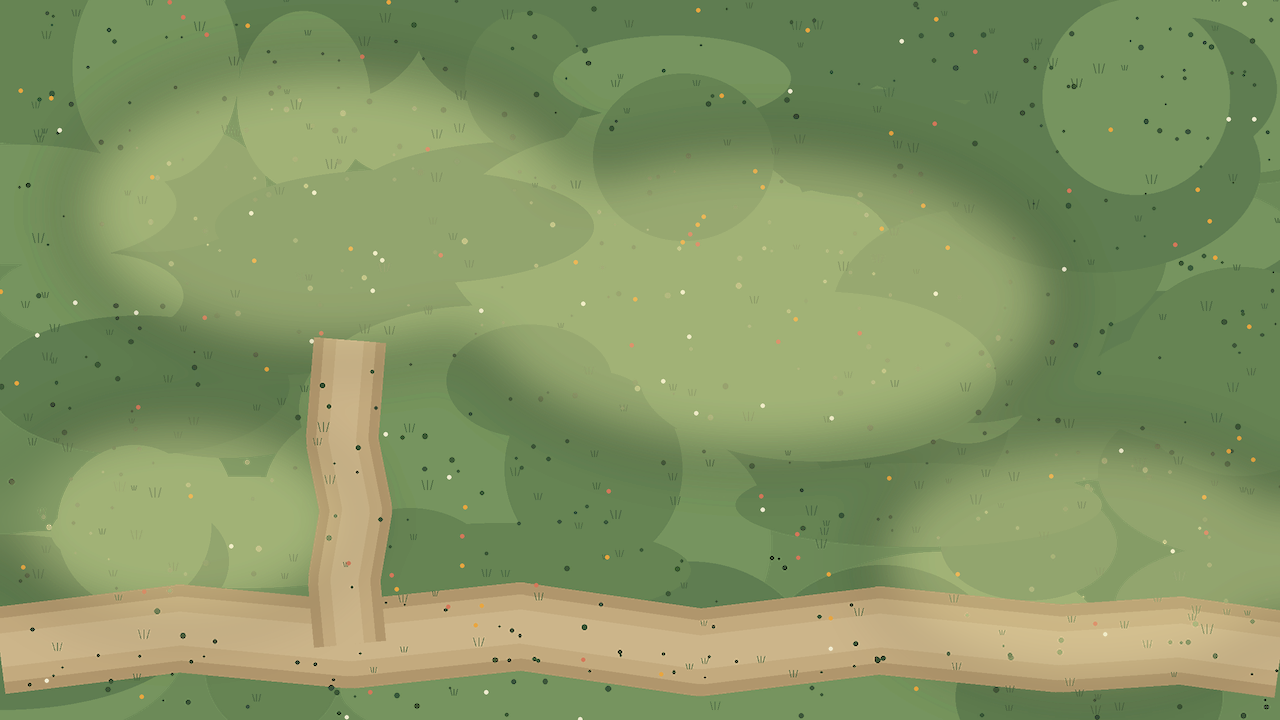
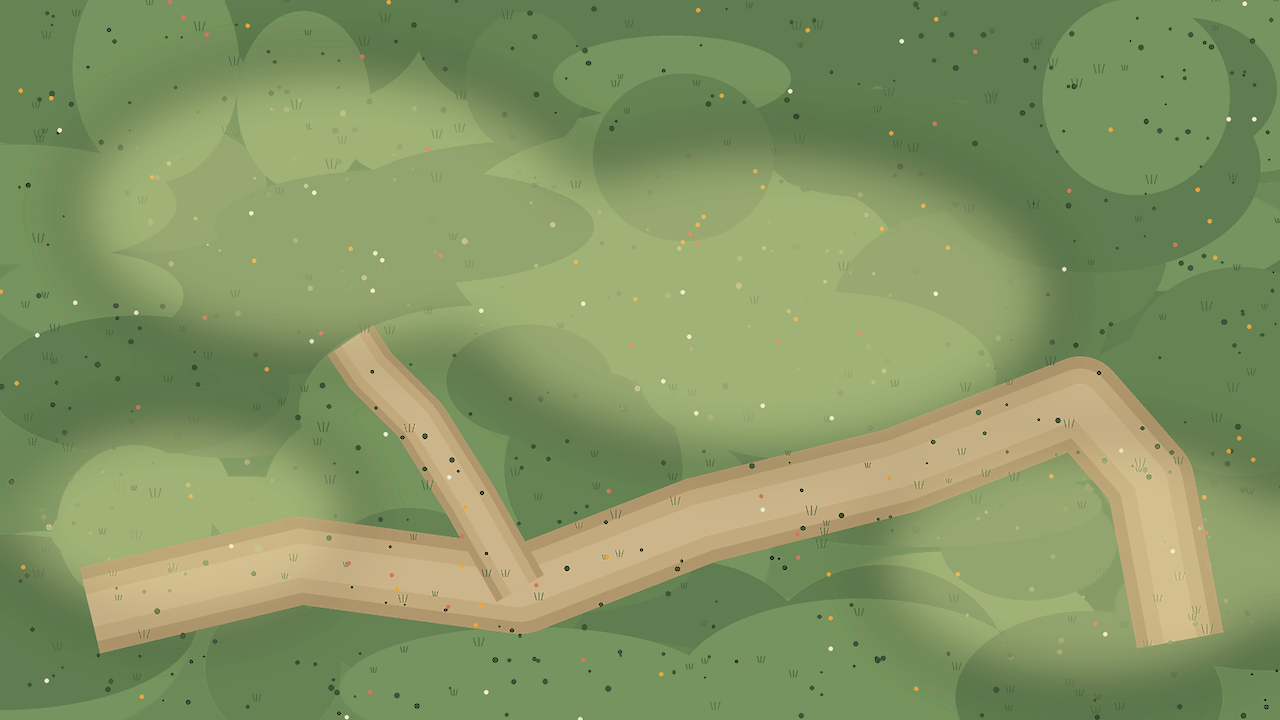
1번 맵 메인 흙길은 원래대로 되돌리고 텐트 갈림길만 출입구까지 연결

Changed region(s): [[0.0, 0.4583, 1.0, 0.9778]]

diff --git a/Project/pico_heist/maps.py b/Project/pico_heist/maps.py
@@ -26,13 +26,13 @@ MAPS = [
             ("prop_pine", 1010, 190, 0.92),
             ("prop_tree", 1150, 400, 1.00),
             ("prop_pine", 960, 690, 0.95),
-            ("prop_bush", 180, 470, 1.00),   # 가로 흙길 위쪽 왼쪽
-            ("prop_bush", 480, 500, 1.00),   # 텐트 오르막 길 옆을 비워 준다
+            ("prop_bush", 180, 470, 1.00),
+            ("prop_bush", 300, 470, 1.00),   # 텐트 갈림길을 비우고 왼쪽으로 이동
             ("prop_bush", 520, 200, 1.00),
             ("prop_bush", 660, 230, 0.95),
-            ("prop_bush", 760, 520, 1.00),   # 가로 흙길 위쪽으로 이동
-            ("prop_bush", 880, 520, 0.95),
-            ("prop_bush", 1060, 520, 0.95),
+            ("prop_bush", 760, 380, 1.00),   # 원래 메인 흙길 위쪽으로 이동
+            ("prop_bush", 880, 300, 0.95),
+            ("prop_bush", 1060, 600, 0.95),   # 오른쪽 굽은 길에서 떨어뜨림
             ("prop_tent", 350, 300, 1.00),
             ("prop_tent_teal", 1010, 300, 1.00),
             ("prop_fire", 640, 400, 1.00),
@@ -43,10 +43,10 @@ MAPS = [
         ],
         "foods": [
             # 야외 음식은 수풀 발밑 바로 앞(잎 밖)에 두고, 왼쪽→오른쪽으로 고르게 퍼뜨린다.
-            ("stew", 760, 550),       # prop_bush (760, 520) 앞
-            ("sausage", 1060, 550),   # prop_bush (1060, 520) 앞
+            ("stew", 760, 410),       # prop_bush (760, 380) 앞
+            ("sausage", 1060, 630),   # prop_bush (1060, 600) 앞
             ("apple", 180, 500),      # prop_bush (180, 470) 앞
-            ("cheese", 480, 530),     # prop_bush (480, 500) 앞
+            ("cheese", 300, 500),     # prop_bush (300, 470) 앞
         ],
         "campers": [
             {"variant": 0, "path": [(420, 420), (860, 420)], "speed": 58, "wait": 1.3},
@@ -54,16 +54,16 @@ MAPS = [
              "speed": 48, "wait": 0.6},
         ],
         # 진짜 음식을 먹으면 출구가 열린다 — 피코가 길을 따라 걸어가야 다음 맵으로 간다.
-        # 흙길은 y≈640을 완만하게 물결치며 지나가고, x≈350에서
-        # 텐트 입구(350,340)로 살짝 휘며 올라가는 ㅗ 모양이다.
+        # 메인 흙길은 맨처음 곡선 그대로이고, 중간(520,590)에서
+        # 텐트 출입구(350,340)로 올라가는 갈림길만 바로잡았다.
         "exit": {
             "rect": (1130, 600, 1230, 680),
             "gate": (1180, 640),
-            "path": [(0, 650), (180, 628), (350, 644),
-                     (344, 580), (356, 510), (342, 440), (350, 340),
-                     (342, 440), (356, 510), (344, 580), (350, 644),
-                     (520, 626), (700, 652), (880, 630), (1060, 648),
-                     (1180, 640), (1280, 654)],
+            "path": [(90, 610), (300, 560), (520, 590),
+                     (520, 588), (470, 500), (420, 420), (370, 370), (350, 340),
+                     (370, 370), (420, 420), (470, 500), (520, 588),
+                     (700, 520), (900, 470), (1080, 400), (1150, 480),
+                     (1180, 640)],
         },
         "tent": {
             "name": "텐트 안",

diff --git a/Project/pico_heist/make_assets.py b/Project/pico_heist/make_assets.py
@@ -129,12 +129,15 @@ def bg_forest():
         rx, ry = rnd.uniform(60, 200) * ss, rnd.uniform(40, 120) * ss
         col = rnd.choice([(96, 126, 80), (118, 148, 94), (102, 132, 84)])
         d.ellipse([cx - rx, cy - ry, cx + rx, cy + ry], fill=col + (110,))
-    # 흙길 — 첫 맵의 자연스러운 물결을 살리되 너무 꺾이지 않게,
-    # y≈640을 완만하게 오갼다. x≈350에서는 텐트 입구로 살짝 휘어 오르는 ㅗ 갈림길.
-    dirt_road(d, [(0, 650), (180, 628), (350, 644), (520, 626), (700, 652),
-                  (880, 630), (1060, 648), (1180, 640), (1280, 654)], ss)
-    dirt_road(d, [(350, 644), (344, 580), (356, 510), (342, 440),
-                  (350, 340)], ss, width_scale=0.82)
+    # 흙길 — 맨처음 곡선을 그대로 되돌리고, 끝만 오른쪽 아래 게이트까지 이어서
+    # 2·3번 맵의 같은 흙길로 자연스럽게 넘어가게 한다.
+    path = [(90, 610), (300, 560), (520, 590), (700, 520), (900, 470),
+            (1080, 400), (1150, 480), (1180, 640)]
+    dirt_road(d, path, ss)
+    # 텐트로 올라가는 갈림길 — 예전에는 (500,380)에서 끊겼지만,
+    # 이제는 텐트 출입구(350,340)까지 정확히 이어진다.
+    side = [(520, 588), (470, 500), (420, 420), (370, 370), (350, 340)]
+    dirt_road(d, side, ss, width_scale=0.62)
     # 잔디/풀/꽃
     grass_tufts(im, (74, 102, 66), 220, ss)
     grain(im, (60, 88, 56), 500, size=(1, 3), alpha=(20, 60), ss=ss)

diff --git a/Project/pico_heist/README.md b/Project/pico_heist/README.md
@@ -58,7 +58,7 @@ python main.py
 | 2 | 호숫가 캠핑장 | 해 질 녘 | 옥수수 · 샌드위치 · 빵 · 달걀 + **생선(낚시)** | 3명 (순찰 2, 호숫가 낚시 1) | 5 |
 | 3 | 야간 축제 캠핑장 | 밤 | 치킨 · 케이크 · 소다 · 베리 + 수프(조리 부스) | 5명 (순찰 3, 감시 1, 배회 1) + 요리사 1명 | 6 |
 
-- **1번 맵에만 텐트 안** 서브 맵이 있다. 갈색 흙길은 **`y≈640`을 완만하게 물결치며** 지나가고, **`x≈350`에서 텐트 출입구 `(350,340)`까지 살짝 휘어 올라가는 ㅗ 모양**이다. 가로길 오른쪽 끝 게이트로 이어진다. 텐트 앞 출입구(반짝이는 표시)에서 **E**로 들어가고, 안쪽 출입구에서 다시 **E**로 나온다. 2번 맵의 텐트는 장식이다.
+- **1번 맵에만 텐트 안** 서브 맵이 있다. 갈색 흙길은 **맨처음 곡선(`(90,610)→(300,560)→(520,590)→(700,520)→…→(1180,640)`)을 그대로** 되돌렸다. 중간 `(520,590)`에서 갈라지는 길만 고쳐 **텐트 출입구 `(350,340)`까지 정확히 이어진다.** 텐트 앞 출입구(반짝이는 표시)에서 **E**로 들어가고, 안쪽 출입구에서 다시 **E**로 나온다. 2번 맵의 텐트는 장식이다.
 - **3번 맵에만 무대 뒤 조리 부스** 서브 맵이 있다. 주황 부스 앞에서 **E**로 들어가고, 안쪽 출입구에서 다시 **E**로 나온다. 진짜 음식 수프가 이 안에 있다.
 - 2번 맵에는 **부두 위에 서 있는 사람이 없다.** 대신 호숫가 언덕에 **앉아서 낚시하는 캠핑객**이 물을 바라보며 앉아 있다(낚싯줄과 물결 연출 포함).
 - 텐트 안에는 **자는 사람**이 있다. 시야는 없지만 **가까이 가면 감지도가 빠르게 오른다** (예전보다 조금 완만하게 조정).
